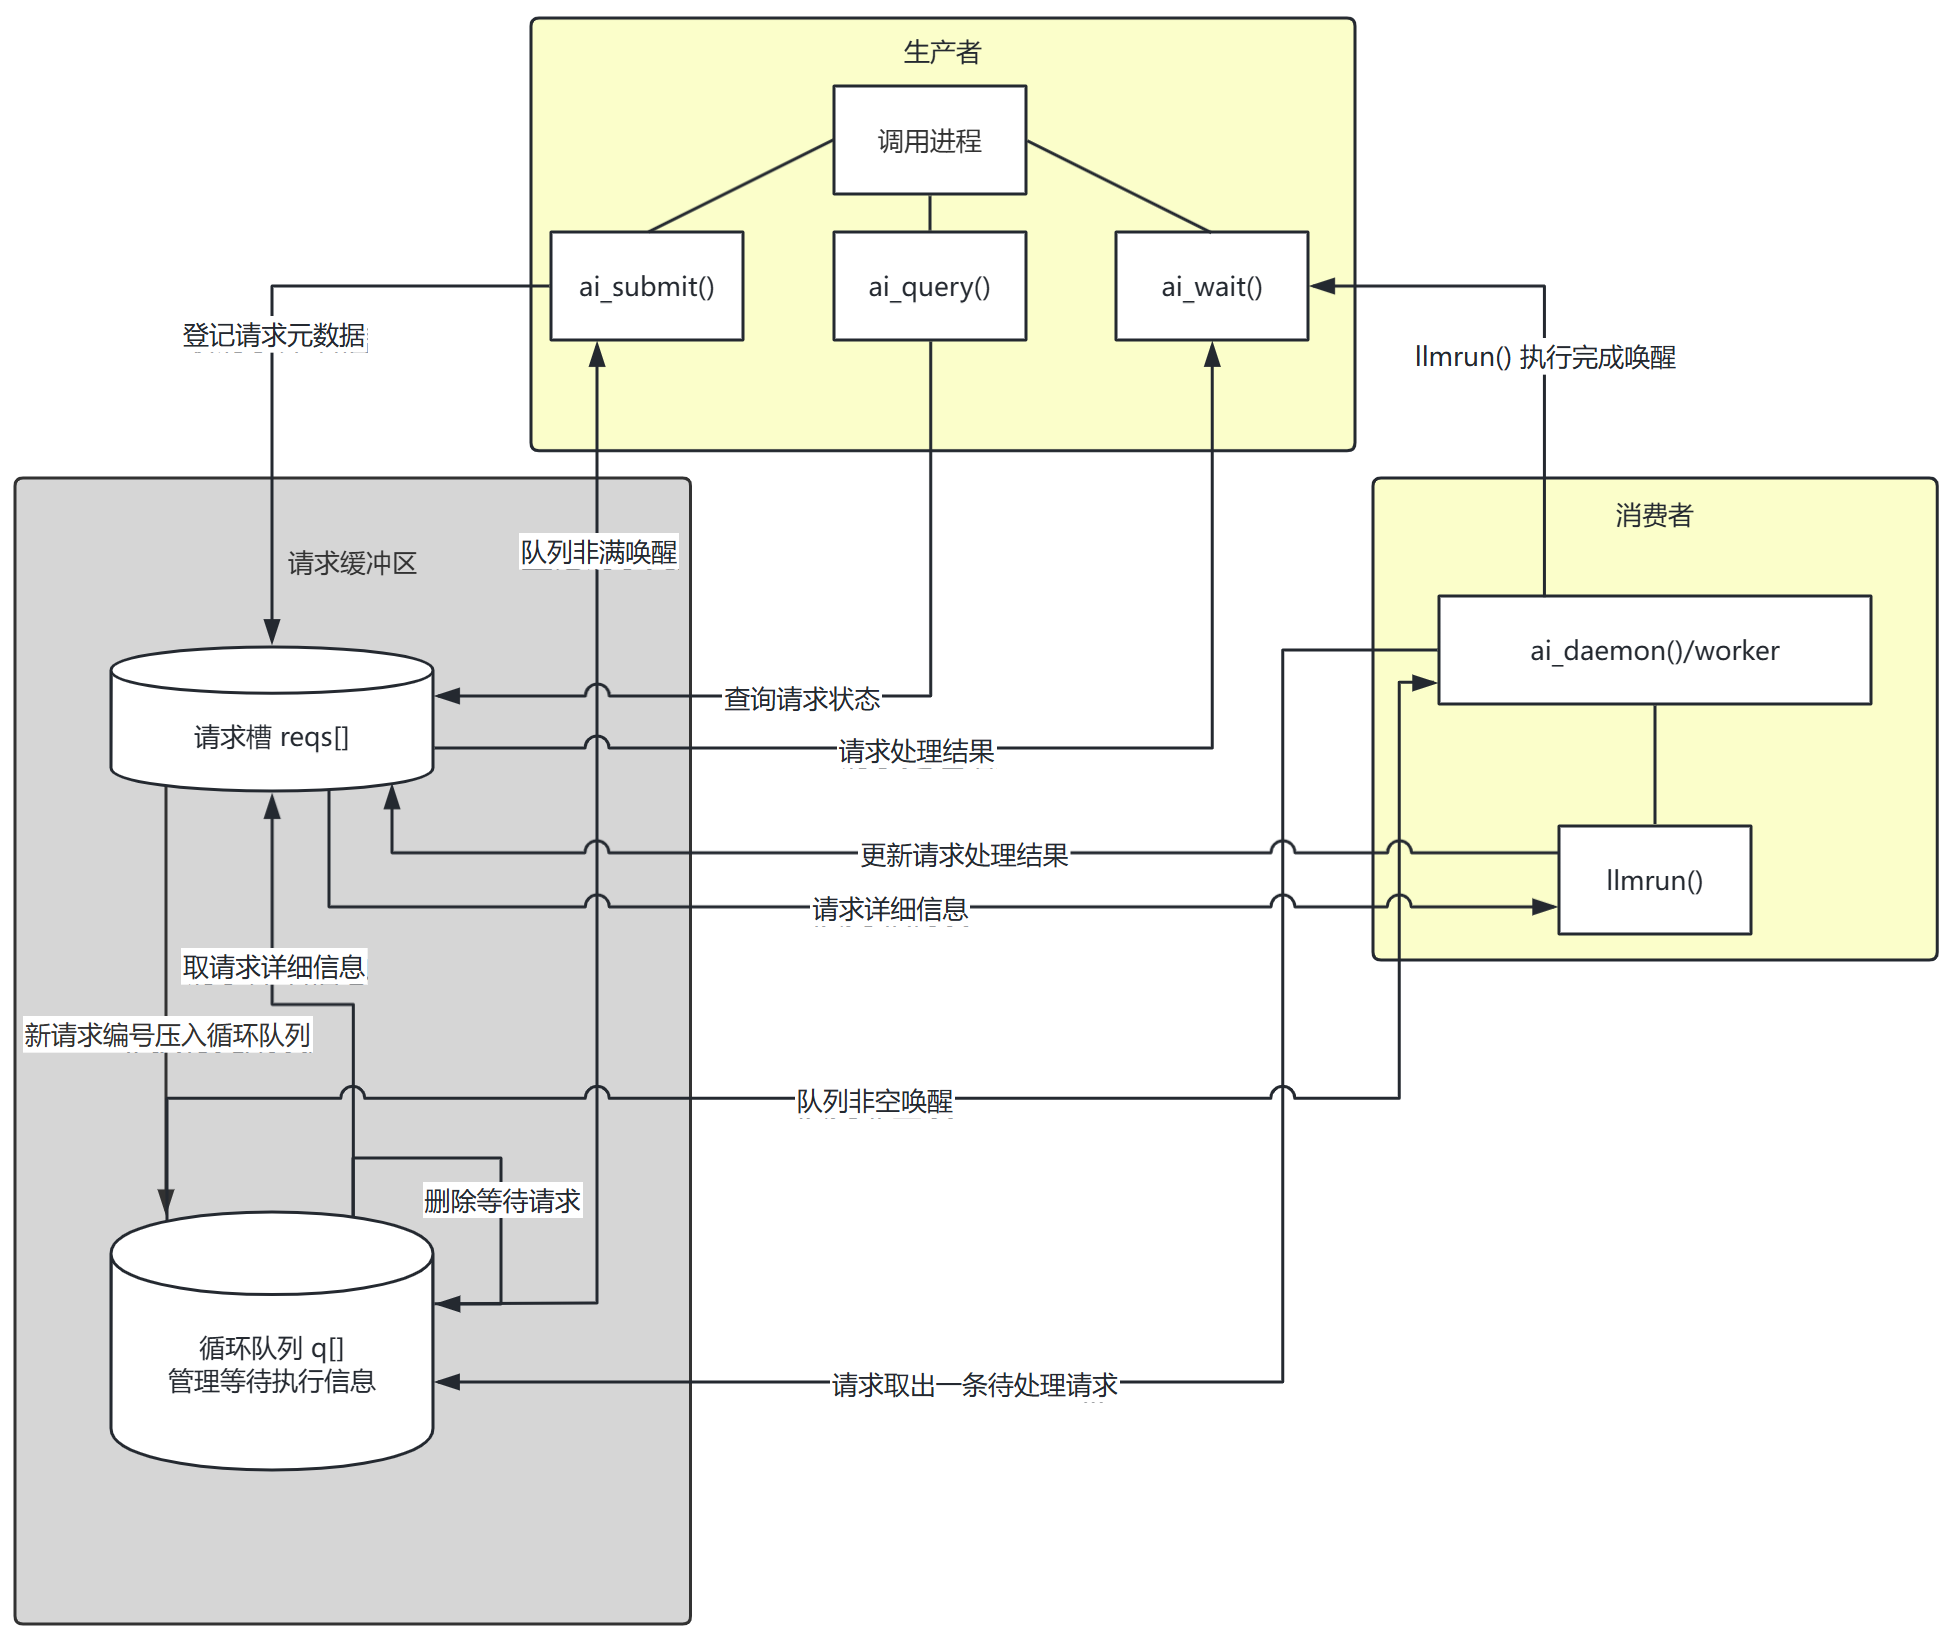
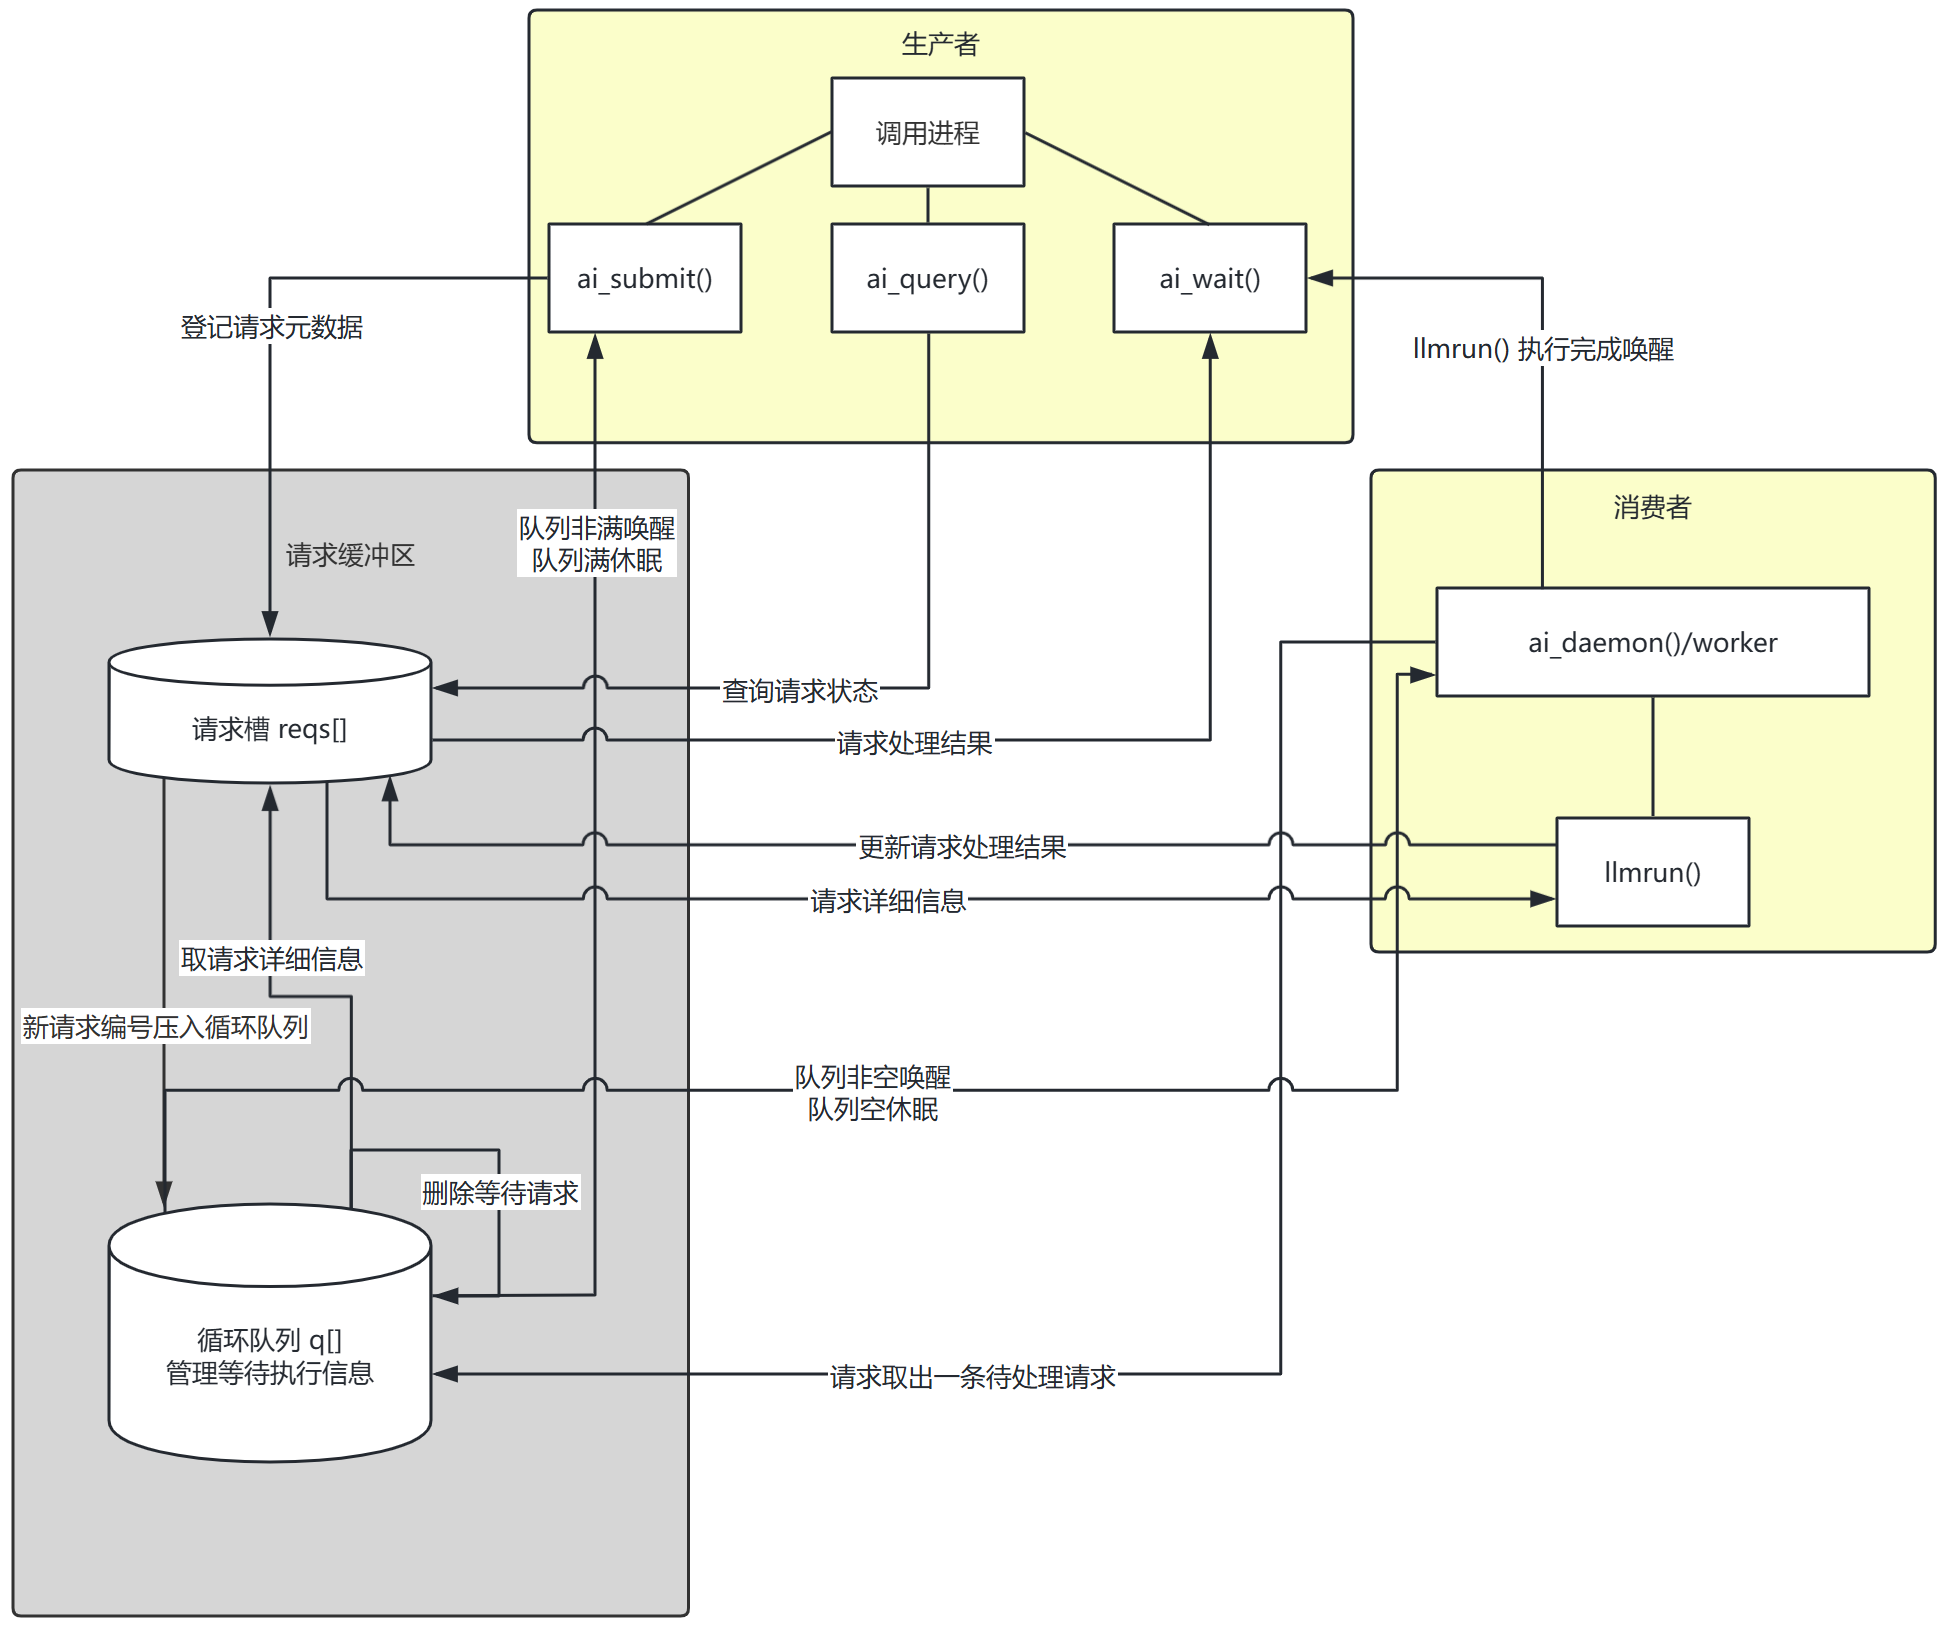
完成Part 2任务B；更新Part 2任务A绘图

diff --git a/Homework/hw2/Part2.md b/Homework/hw2/Part2.md
@@ -1,3 +1,19 @@
 ### 任务 A
 绘制的异步服务结构图如下：
 ![异步服务结构图](assets/hw2-Part2-TaskA.png)
+
+### 任务 B
+1. 队列空，worker 无事可做
+   - 本质上是**消费端等待生产端产出数据**
+   - worker 检查到循环队列空时，进入睡眠状态；循环队列插入新请求编号时唤醒 worker
+   - 阻塞和唤醒参数
+     - 阻塞者：后台 worker
+     - 唤醒条件：循环队列插入新的待处理请求编号
+     - 唤醒者：循环队列
+2. 槽位满，新的提交无法进入
+   - 本质上是**生产端等待消费端处理堆积的数据**
+   - `ai_submit()` 检查到请求槽满或循环队列满时，进入睡眠状态；循环队列删除一条待处理请求时唤醒 ai_submit()
+   - 阻塞和唤醒参数
+     - 阻塞者：`ai_submit()`
+     - 唤醒条件：循环队列有一条请求被 worker 接收并处理
+     - 唤醒者：循环队列
